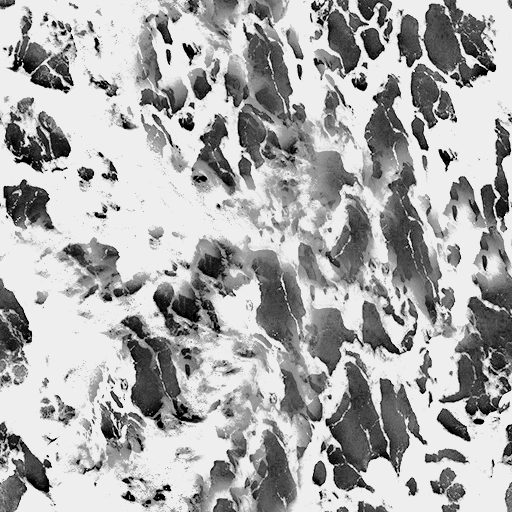
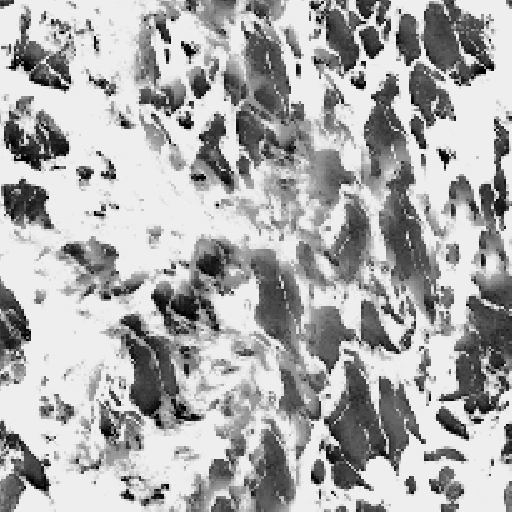
Agua pixelart, animacion fix (??

diff --git a/Assets/02_Scripts/WaterEvents.cs b/Assets/02_Scripts/WaterEvents.cs
@@ -9,8 +9,8 @@ public class WaterEvents : MonoBehaviour
     [SerializeField] List<GameObject> objetos = new List<GameObject>();
     [SerializeField] GameObject panel;
 
-    [Header("Material")]
-    [SerializeField] Material ditherMaterial;
+    //[Header("Material")]
+    //[SerializeField] Material ditherMaterial;
 
     int clicks;
     bool puedeDarClick = true;
@@ -54,10 +54,10 @@ public class WaterEvents : MonoBehaviour
         puedeDarClick = false;
         primerEvento = true;
         yield return new WaitForSeconds(3.5f);
-        foreach (GameObject item in objetos)
-        {
-            item.GetComponent<Renderer>().material = ditherMaterial;
-        }
+        //foreach (GameObject item in objetos)
+        //{
+        //    item.GetComponent<Renderer>().material = ditherMaterial;
+        //}
         panel.SetActive(true);
         yield return new WaitForSeconds(.1f);
         Destroy(this);
